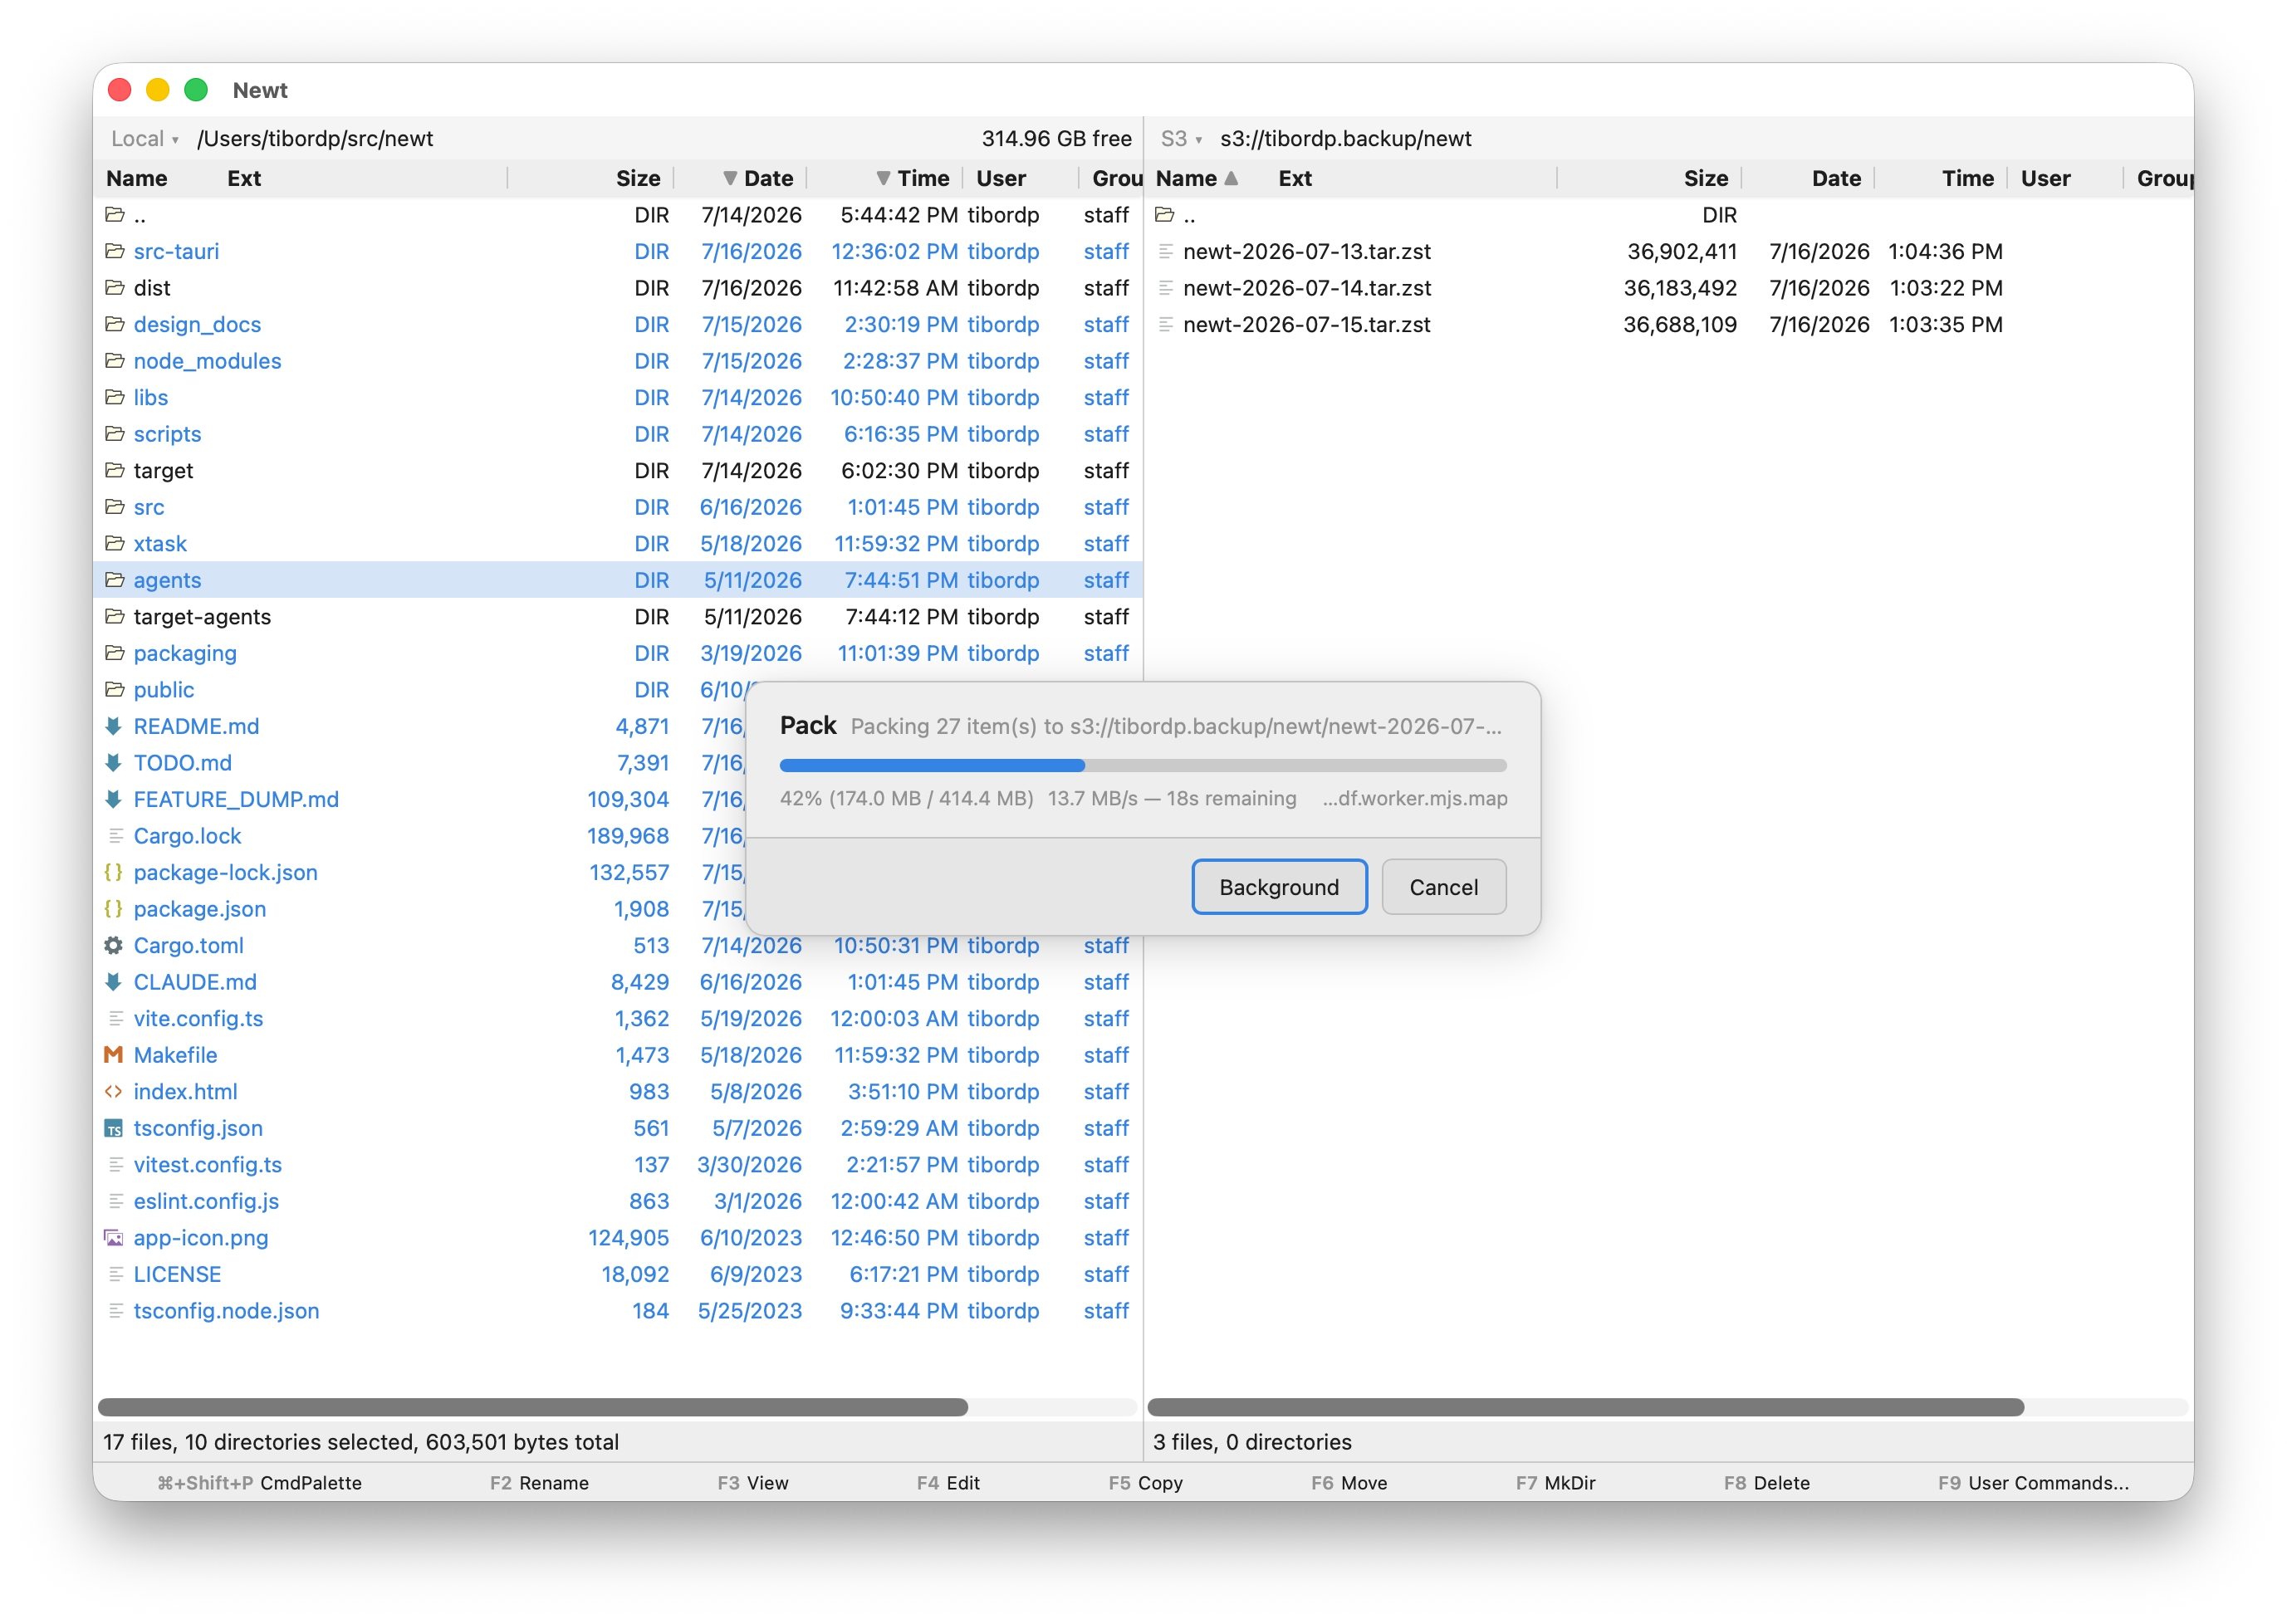
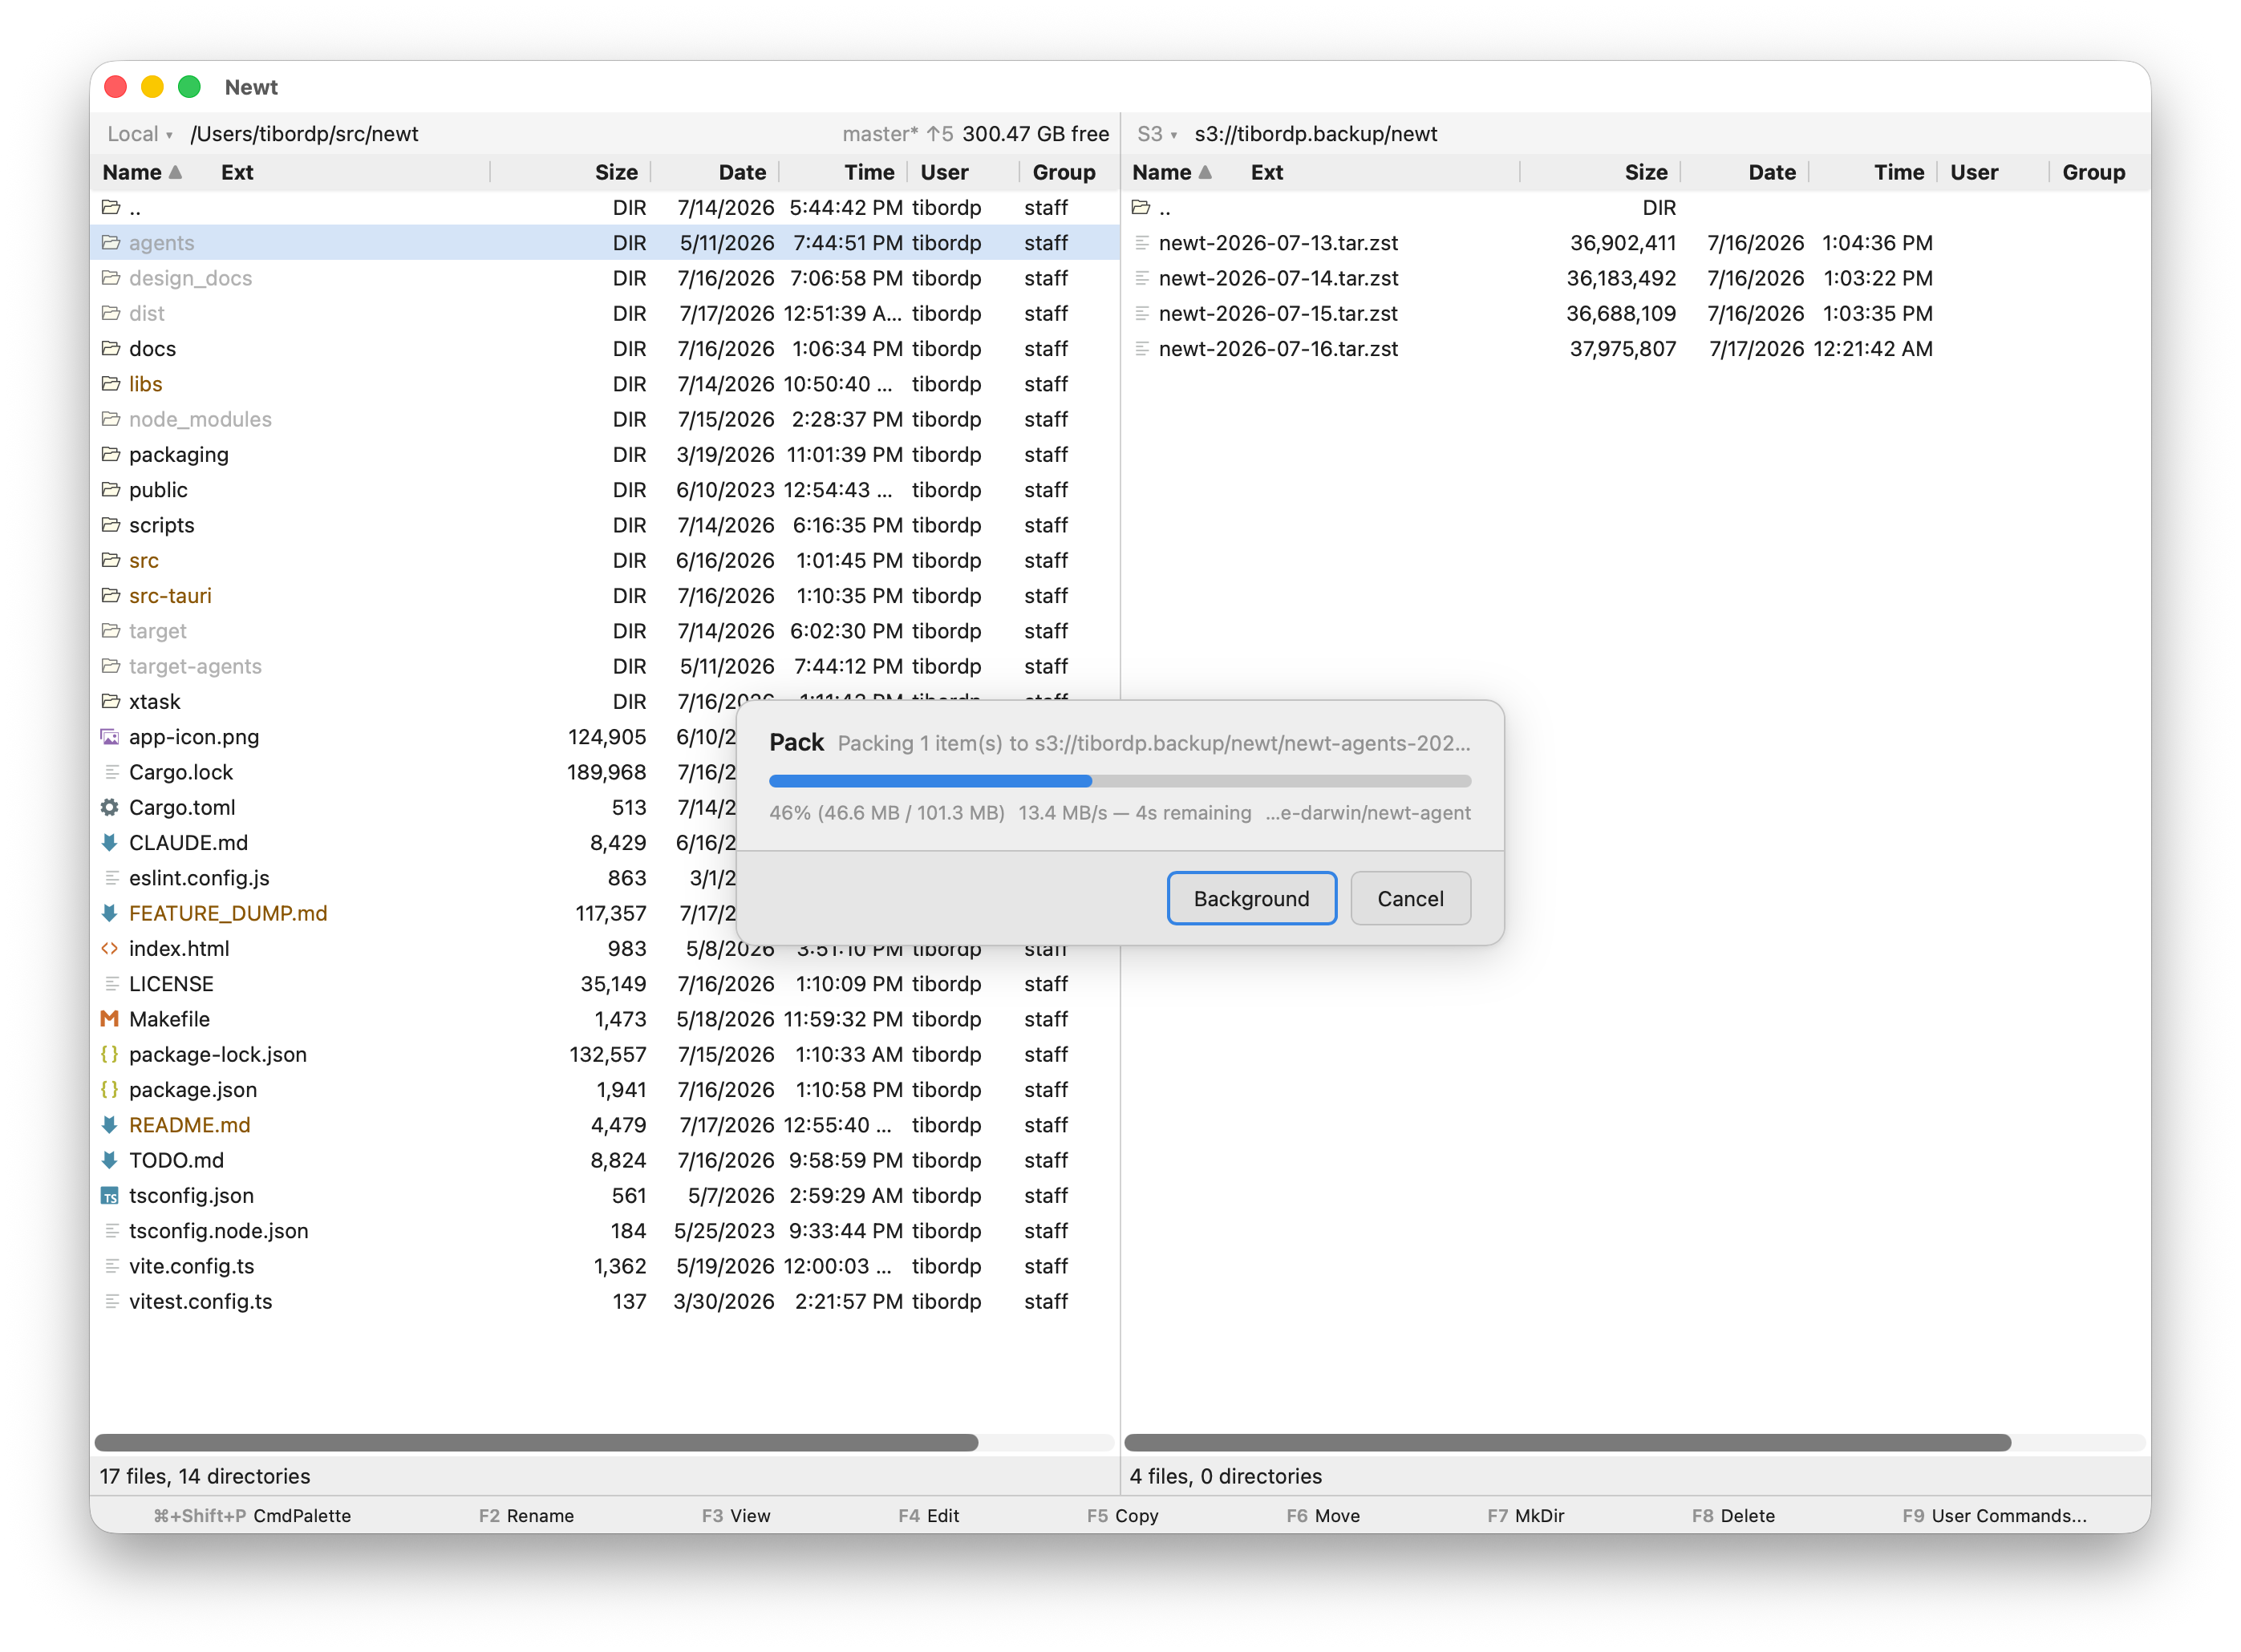
fix(enrich): selection color precedence, du totals via selection stats
Selection state now always beats per-row git decorations (the status
classes colored .filename-part directly, overriding the inherited
selection accent). The du directory-total badge is gone: selection
totals include computed recursive sizes instead — select-all after
Calculate All Sizes reads the directory total off the existing status
line, live while a walk streams, rather than two colliding "bytes
total" segments. README + screenshot refresh piggybacks.

Changed region(s): [[0.0312, 0.0312, 0.6558, 0.8108], [0.0312, 0.842, 0.968, 0.9356], [0.687, 0.0936, 0.968, 0.2183]]

diff --git a/src/main_window/Pane.tsx b/src/main_window/Pane.tsx
@@ -704,15 +704,6 @@ function PaneInner(
     };
   }, [pending_path, loading]);
 
-  // Computed total of the current directory ("calculate all sizes").
-  const duTotalBadge = (context_badges ?? []).find(
-    (b) => "dir_total_size" in b,
-  );
-  const duTotal =
-    duTotalBadge && "dir_total_size" in duTotalBadge
-      ? duTotalBadge.dir_total_size
-      : undefined;
-
   // Enrichment activity line, shown with a grace delay so sub-200ms runs
   // (a typical git status) don't flash the status bar on every navigation.
   const activityLabels = Object.values(enrichment_activity ?? {});
@@ -1731,13 +1722,6 @@ function PaneInner(
                     ` (showing ${stats.file_count + stats.dir_count} of ${stats.total_count})`}
                 </>
               )}
-            {!showSpinner && !loading && duTotal && (
-              <>
-                {" · "}
-                {duTotal.bytes.toLocaleString()} bytes total
-                {!duTotal.complete && "+"}
-              </>
-            )}
             {!showSpinner && !loading && partial && (
               <span className={styles.partial}> (partial)</span>
             )}

diff --git a/src/main_window/Pane.module.scss b/src/main_window/Pane.module.scss
@@ -100,6 +100,14 @@
 
   &.selected {
     color: var(--color-accent);
+
+    // Selection always beats per-row enricher decorations: the git
+    // status classes color .filename-part directly, which would
+    // otherwise override the inherited selection color. Three classes
+    // of specificity vs. their two.
+    :global(.filename-part) {
+      color: var(--color-accent);
+    }
   }
 }
 

diff --git a/src/main_window/types.ts b/src/main_window/types.ts
@@ -80,8 +80,7 @@ export type GitBranch = {
   dirty: boolean;
 };
 
-export type ContextBadge =
-  { git_branch: GitBranch } | { dir_total_size: RecursiveSize };
+export type ContextBadge = { git_branch: GitBranch };
 
 /// Display projection of `File` produced by the host: same fields as
 /// `File`, with `source_display` pre-rendered through the source VFS's

diff --git a/libs/newt-common/src/enrich/du.rs b/libs/newt-common/src/enrich/du.rs
@@ -9,9 +9,11 @@
 //! Streams running totals per sized entry (replace-by-key,
 //! `complete: false`, throttled by the sink) so directories visibly
 //! grow while the walk runs, flipping to `complete: true` per subtree.
-//! A whole-listing run also accumulates a `DirTotalSize` badge for the
-//! status bar. Cancellation is by drop, like every enricher; values
-//! already applied stay displayed (marked partial) until navigation.
+//! No directory-total badge: the pane's selection totals include
+//! computed sizes, so select-all after a whole-listing run reads the
+//! directory total off the status bar. Cancellation is by drop, like
+//! every enricher; values already applied stay displayed (marked
+//! partial) until navigation.
 //!
 //! Sizing matches `du`: allocated bytes (`File::allocated_size`) when
 //! the filesystem reports them — so sparse files (VM disk images,
@@ -26,13 +28,11 @@
 //! works and stops at further nested mounts.
 
 use std::collections::HashSet;
-use std::sync::atomic::{AtomicU64, Ordering};
 
 use futures::StreamExt;
 
 use super::{
-    Annotation, ContextBadge, EnrichScope, EnrichSink, Enricher, EnricherDescriptor,
-    RegisteredEnricher,
+    Annotation, EnrichScope, EnrichSink, Enricher, EnricherDescriptor, RegisteredEnricher,
 };
 use crate::Error;
 use crate::vfs::path::PathBuf;
@@ -83,38 +83,17 @@ impl Enricher for DuEnricher {
         let (vfs, dir) = registry.resolve(path)?;
         let listing = vfs.list_files(&dir, None).await?;
 
-        // The badge (total of the listed directory) only makes sense
-        // for a whole-listing run.
-        let badge = matches!(scope, EnrichScope::AllEntries);
-        let selected: Vec<_> = listing
+        // Futures are built eagerly (they run nothing until polled);
+        // in-future concurrency (no spawns) so dropping this future
+        // cancels every walk.
+        let walks: Vec<_> = listing
             .files
             .iter()
-            .filter(|f| f.name != "..")
+            .filter(|f| f.name != ".." && f.is_dir && !f.is_symlink)
             .filter(|f| match scope {
                 EnrichScope::AllEntries => true,
                 EnrichScope::Entries(keys) => keys.iter().any(|k| k == f.key()),
             })
-            .collect();
-
-        // Grand total accumulator: direct files up front, walked bytes
-        // as they are discovered.
-        let total = AtomicU64::new(0);
-        for f in selected.iter().filter(|f| !f.is_dir) {
-            total.fetch_add(occupied(f), Ordering::Relaxed);
-        }
-        if badge {
-            sink.emit_badge(ContextBadge::DirTotalSize {
-                bytes: total.load(Ordering::Relaxed),
-                complete: false,
-            });
-        }
-
-        // Futures are built eagerly (they run nothing until polled);
-        // in-future concurrency (no spawns) so dropping this future
-        // cancels every walk.
-        let walks: Vec<_> = selected
-            .iter()
-            .filter(|f| f.is_dir && !f.is_symlink)
             .map(|f| {
                 walk_entry(
                     vfs.as_ref(),
@@ -125,8 +104,6 @@ impl Enricher for DuEnricher {
                     // stops at the next boundary down.
                     f.device_id,
                     sink,
-                    &total,
-                    badge,
                 )
             })
             .collect();
@@ -135,12 +112,6 @@ impl Enricher for DuEnricher {
             .collect::<Vec<()>>()
             .await;
 
-        if badge {
-            sink.emit_badge(ContextBadge::DirTotalSize {
-                bytes: total.load(Ordering::Relaxed),
-                complete: true,
-            });
-        }
         Ok(())
     }
 }
@@ -152,16 +123,13 @@ fn occupied(f: &crate::filesystem::File) -> u64 {
 }
 
 /// Size one directory entry: serial DFS summing file sizes, emitting a
-/// growing running total for the entry (and the shared grand total)
-/// after every directory listed.
+/// growing running total for the entry after every directory listed.
 async fn walk_entry(
     vfs: &dyn Vfs,
     key: String,
     root: PathBuf,
     root_device: Option<u64>,
     sink: &EnrichSink,
-    total: &AtomicU64,
-    badge: bool,
 ) {
     let mut bytes = 0u64;
     let mut listed_any = false;
@@ -205,9 +173,7 @@ async fn walk_entry(
                 {
                     continue;
                 }
-                let size = occupied(&entry);
-                bytes += size;
-                total.fetch_add(size, Ordering::Relaxed);
+                bytes += occupied(&entry);
             }
         }
         sink.emit_entry(
@@ -217,12 +183,6 @@ async fn walk_entry(
                 complete: false,
             },
         );
-        if badge {
-            sink.emit_badge(ContextBadge::DirTotalSize {
-                bytes: total.load(Ordering::Relaxed),
-                complete: false,
-            });
-        }
         sink.maybe_flush().await;
     }
     // An entry we couldn't list at all stays unannotated — a final

diff --git a/libs/newt-common/src/enrich/enrich_tests.rs b/libs/newt-common/src/enrich/enrich_tests.rs
@@ -185,19 +185,13 @@ fn enrichment_event_bincode_round_trip() {
                     },
                 ),
             ],
-            badges: vec![
-                ContextBadge::GitBranch {
-                    name: "main".into(),
-                    detached: false,
-                    ahead: 1,
-                    behind: 2,
-                    dirty: true,
-                },
-                ContextBadge::DirTotalSize {
-                    bytes: 42,
-                    complete: true,
-                },
-            ],
+            badges: vec![ContextBadge::GitBranch {
+                name: "main".into(),
+                detached: false,
+                ahead: 1,
+                behind: 2,
+                dirty: true,
+            }],
         }),
         EnrichmentEvent::Finished {
             enricher: "git".into(),
@@ -441,13 +435,14 @@ async fn du_enricher_end_to_end() {
     let expected_b = disk_usage(&dir.join("b/f3"));
     #[cfg(not(unix))] // no nlink metadata on Windows — no dedup
     let expected_b = 2 * disk_usage(&dir.join("b/f3"));
-    let expected_total = expected_a + expected_b + disk_usage(&dir.join("top.txt"));
 
     let registry = Arc::new(VfsRegistry::with_root(Arc::new(LocalVfs::new())));
     let enrichers = Enrichers::new(registry.clone()).with(Arc::new(super::du::DuEnricher));
     let root_path = VfsPath::new(VfsId::ROOT, local_path_from_native(&dir));
 
-    // Whole-listing run: every directory sized, badge totals the lot.
+    // Whole-listing run: every directory sized. No badges — the
+    // directory total is read via select-all (selection stats include
+    // computed sizes).
     let (entries, badges, lifecycle) = collect_scoped_events(
         &enrichers,
         root_path.clone(),
@@ -460,16 +455,10 @@ async fn du_enricher_end_to_end() {
     assert_eq!(sizes.get("b"), Some(&(expected_b, true)));
     // Symlinked directories are neither sized nor followed.
     assert_eq!(sizes.get("link"), None);
-    assert_eq!(
-        badges,
-        vec![ContextBadge::DirTotalSize {
-            bytes: expected_total,
-            complete: true,
-        }]
-    );
+    assert!(badges.is_empty());
     assert_eq!(lifecycle, vec!["start:du", "finish:du"]);
 
-    // Scoped run: only the named entry, no directory-total badge.
+    // Scoped run: only the named entry.
     let (entries, badges, _) = collect_scoped_events(
         &enrichers,
         root_path.clone(),

diff --git a/src-tauri/src/main_window/pane.rs b/src-tauri/src/main_window/pane.rs
@@ -1611,19 +1611,23 @@ impl PaneViewState {
             if f.name == ".." {
                 continue;
             }
+            // Directories contribute their computed recursive size when
+            // the du enricher has produced one, so a ⌘A after Calculate
+            // All Sizes totals the whole directory in the status bar.
+            let size = Self::effective_size(&self.enrichments, f).unwrap_or(0);
             if f.is_dir {
                 stats.dir_count += 1;
             } else {
                 stats.file_count += 1;
-                stats.bytes += f.size.unwrap_or(0);
             }
+            stats.bytes += size;
             if self.all_selected.contains(f.key()) {
                 if f.is_dir {
                     stats.selected_dir_count += 1;
                 } else {
                     stats.selected_file_count += 1;
-                    stats.selected_bytes += f.size.unwrap_or(0);
                 }
+                stats.selected_bytes += size;
             }
         }
         if self.filter_mode == FilterMode::Filter {
@@ -1831,8 +1835,14 @@ impl PaneViewState {
         }
         self.rebuild_context_badges();
 
-        if sizes_touched && matches!(self.sorting.key, SortingKey::Size) {
-            self.sort(self.folders_first);
+        if sizes_touched {
+            // Computed sizes feed both sort-by-size and the selection
+            // totals — keep them live while a walk streams.
+            if matches!(self.sorting.key, SortingKey::Size) {
+                self.sort(self.folders_first);
+            } else {
+                self.file_generation += 1;
+            }
             self.recompute_stats();
         } else {
             self.file_generation += 1;

diff --git a/libs/newt-common/src/enrich/mod.rs b/libs/newt-common/src/enrich/mod.rs
@@ -99,10 +99,6 @@ pub enum ContextBadge {
         /// (repo-wide, not just the listed directory).
         dirty: bool,
     },
-    /// Total size of the listed directory, accumulating while a
-    /// "calculate all sizes" walk runs. Rendered in the pane status
-    /// bar, with a trailing `+` while `complete` is false.
-    DirTotalSize { bytes: u64, complete: bool },
 }
 
 /// Which entries a request is about. Automatic enrichment covers the

diff --git a/FEATURE_DUMP.md b/FEATURE_DUMP.md
@@ -127,9 +127,8 @@ Click a column header to sort ascending by that key; click the same header again
 | Loading (first 200ms) | (nothing — grace period to avoid flicker) |
 | Loading (after 200ms) | "Loading... (X items so far)" |
 | Loaded, no selection | "X files, Y directories" |
-| Loaded, with selection | "X files, Y directories selected, Z bytes total" |
+| Loaded, with selection | "X files, Y directories selected, Z bytes total" — Z includes computed recursive sizes of selected directories, so ⌘A after Calculate All Sizes totals the whole directory |
 | Filter active | "(showing X of Y)" appended |
-| Sizes calculated | "· N bytes total" appended after Calculate All Sizes (trailing "+" while the walk runs) |
 | Partial results | "(partial)" appended when directory listing was truncated |
 
 ### Directory Loading
@@ -150,7 +149,7 @@ Background annotation of directory listings (design: `design_docs/DESIGN_ENRICHE
 
 **Architecture**: symmetric across the host↔agent boundary on the operations template — an `Enrichers` registry (`newt_common::enrich`) lives next to the `VfsRegistry` (host-side in local sessions, agent-side in remote ones), fronted by an `EnricherClient` with Local/Remote impls. Static, inventory-collected `EnricherDescriptor`s (the `VfsDescriptor` analogue: id, activity label, automatic, `applies_to_vfs`) are linked by both sides, so the host selects which enrichers to run for a pane (descriptor gate against the pane's VFS × preference gate) and the request names them explicitly — an empty selection sends no request at all, so S3/search/archive/agent-mount panes cost nothing. Data-dependent applicability (is this a repo?) lives inside the enricher; a run that finds nothing still sends an empty reset batch, clearing stale annotations. The remote path streams events via `Notify(API_ENRICHMENT_EVENT)` correlated by `EnrichmentId`; cancellation is by dropping the request future (transport-level `InvokeCancel` aborts the agent-side run). Producer-side batching at 100ms.
 
-**Du enricher (recursive directory sizes)**: manual-only, two commands — **Calculate Size** (Mod+Shift+Enter; sizes the selected/focused directories) and **Calculate All Sizes** (Shift+Alt+Enter; sizes every entry and accumulates a directory-total badge in the status bar, rendered with a trailing `+` while running). Walks via the `Vfs` trait on the side that owns the filesystem, so it works on any VFS (S3, archives, SFTP, remote sessions) and never crosses registry mount boundaries; up to 16 entry walks run concurrently, each a serial DFS. Running totals stream into the size column ncdu-style (in-progress values dimmed with a trailing `+`, flipping to plain when a subtree completes); Esc freezes whatever was computed as marked partials. Computed sizes participate in sort-by-size (a live walk re-sorts in place while the order is active). Directory symlinks are not followed, `/proc` is never descended into, unreadable subtrees are skipped. Sizing matches `du`: allocated bytes (`File.allocated_size`, `st_blocks`-based) when the filesystem reports them — sparse files (VM disk images, Docker.raw) count what they occupy, not their apparent size — with apparent-size fallback on VFSes without block metadata (S3/SFTP/archives, where the two coincide). Hardlinked files are counted once per sized entry (`(device_id, inode)` dedup gated on `hard_links > 1`), and the walk never crosses filesystem boundaries (`du -x` semantics; a mountpoint entry reports the mounted filesystem's device, so sizing the mountpoint itself works and stops at further nested mounts). All four fields are unix-only `File` metadata (`None` on Windows and non-local VFSes).
+**Du enricher (recursive directory sizes)**: manual-only, two commands — **Calculate Size** (Mod+Shift+Enter; sizes the selected/focused directories) and **Calculate All Sizes** (Shift+Alt+Enter; sizes every entry). There is deliberately no directory-total badge — selection totals include computed sizes, so ⌘A reads the directory total off the existing status line. Walks via the `Vfs` trait on the side that owns the filesystem, so it works on any VFS (S3, archives, SFTP, remote sessions) and never crosses registry mount boundaries; up to 16 entry walks run concurrently, each a serial DFS. Running totals stream into the size column ncdu-style (in-progress values dimmed with a trailing `+`, flipping to plain when a subtree completes); Esc freezes whatever was computed as marked partials. Computed sizes participate in sort-by-size (a live walk re-sorts in place while the order is active). Directory symlinks are not followed, `/proc` is never descended into, unreadable subtrees are skipped. Sizing matches `du`: allocated bytes (`File.allocated_size`, `st_blocks`-based) when the filesystem reports them — sparse files (VM disk images, Docker.raw) count what they occupy, not their apparent size — with apparent-size fallback on VFSes without block metadata (S3/SFTP/archives, where the two coincide). Hardlinked files are counted once per sized entry (`(device_id, inode)` dedup gated on `hard_links > 1`), and the walk never crosses filesystem boundaries (`du -x` semantics; a mountpoint entry reports the mounted filesystem's device, so sizing the mountpoint itself works and stops at further nested mounts). All four fields are unix-only `File` metadata (`None` on Windows and non-local VFSes).
 
 **Git enricher**: shells out to the `git` binary where the files live — the remote host's git in remote sessions; no gitoxide/libgit2 dependency. A cheap `.git` walk-up (directory or file, covering worktrees) guards the spawn, so non-repo directories never pay for a git process (their run just emits the empty reset batch). One `git --no-optional-locks status --porcelain=v2 -z --branch --ignored=matching` run at the repo root yields branch/ahead-behind/dirty for the badge and repo-wide per-file statuses for row coloring, with directory rollups (precedence: conflicted > modified > renamed > added > untracked; ignored never rolls up). `--no-optional-locks` keeps status from writing `.git/index` and re-triggering the pane watcher. Toggled by `enrichers.git_status` (default on); toggling takes effect immediately (preference changes re-run automatic enrichers).
 

diff --git a/README.md b/README.md
@@ -1,6 +1,6 @@
 # Newt
 
-*"If Altap Salamander and vscode had a baby..."*
+*"If Altap Salamander and VS Code had a baby..."*
 
 A dual-pane file manager for Linux, macOS, and Windows in the orthodox tradition — two panes, a
 terminal underneath, and your hands never leaving the keyboard. Local files are only the start: